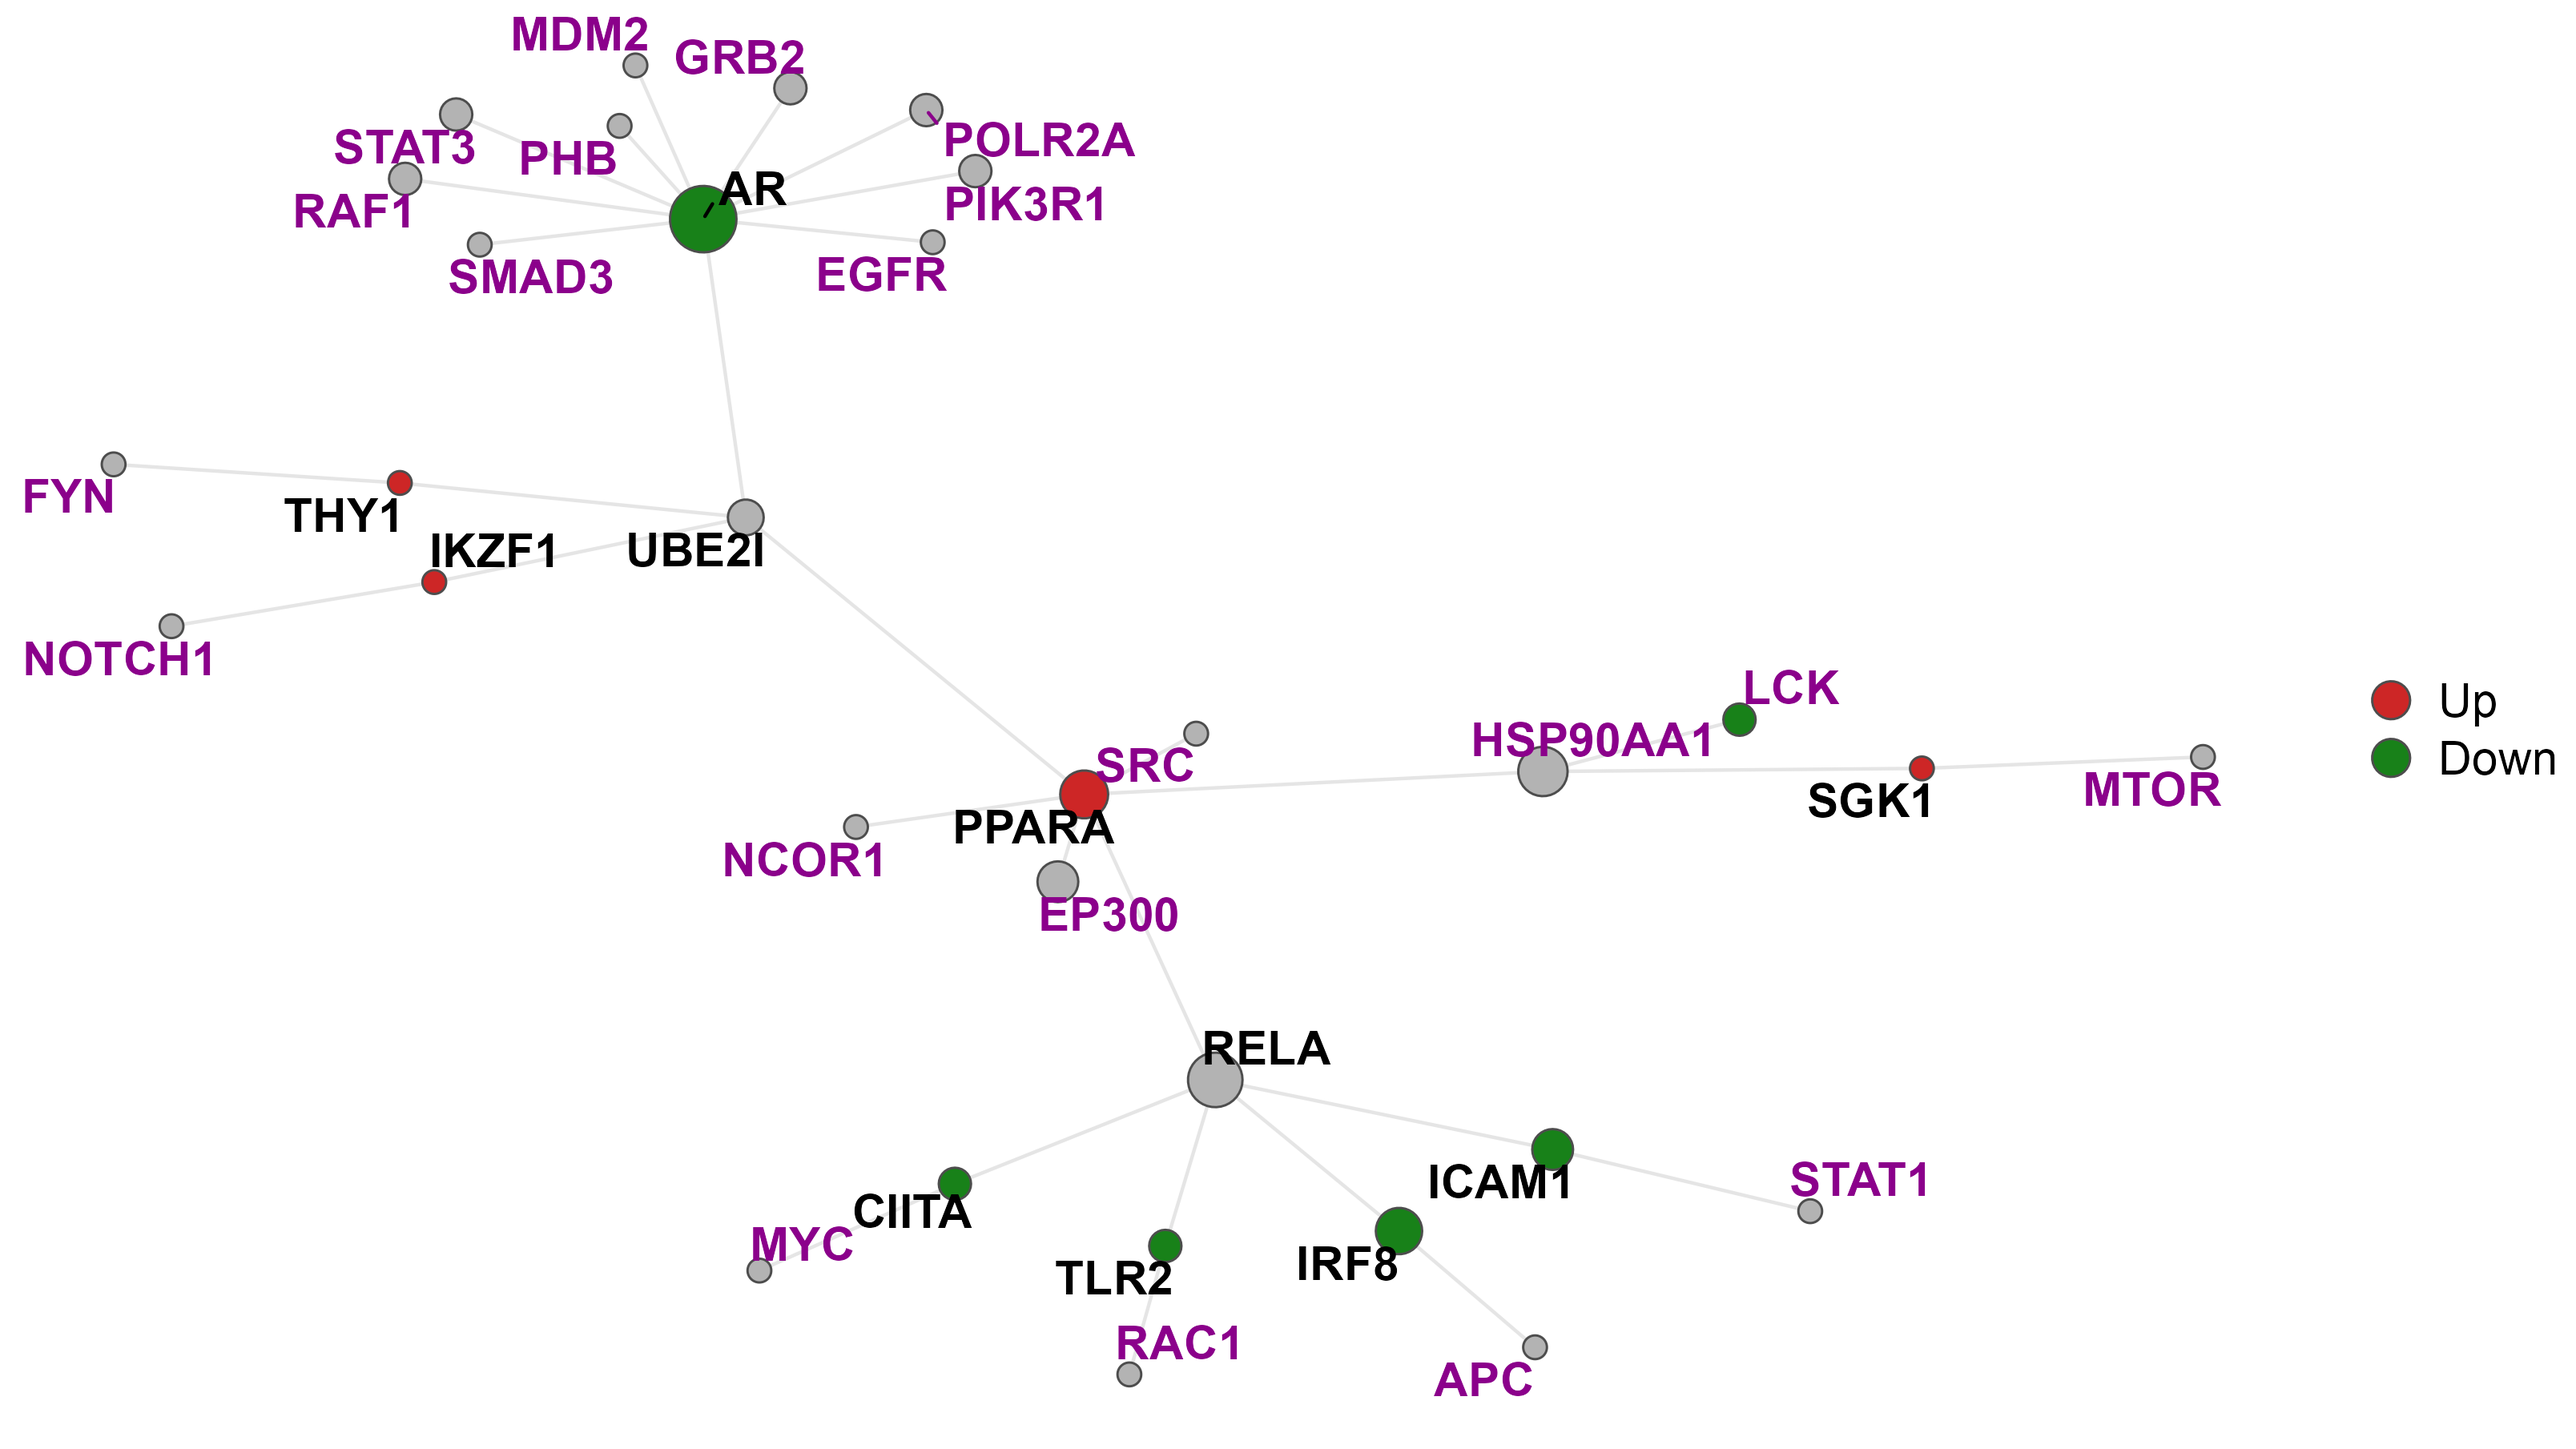
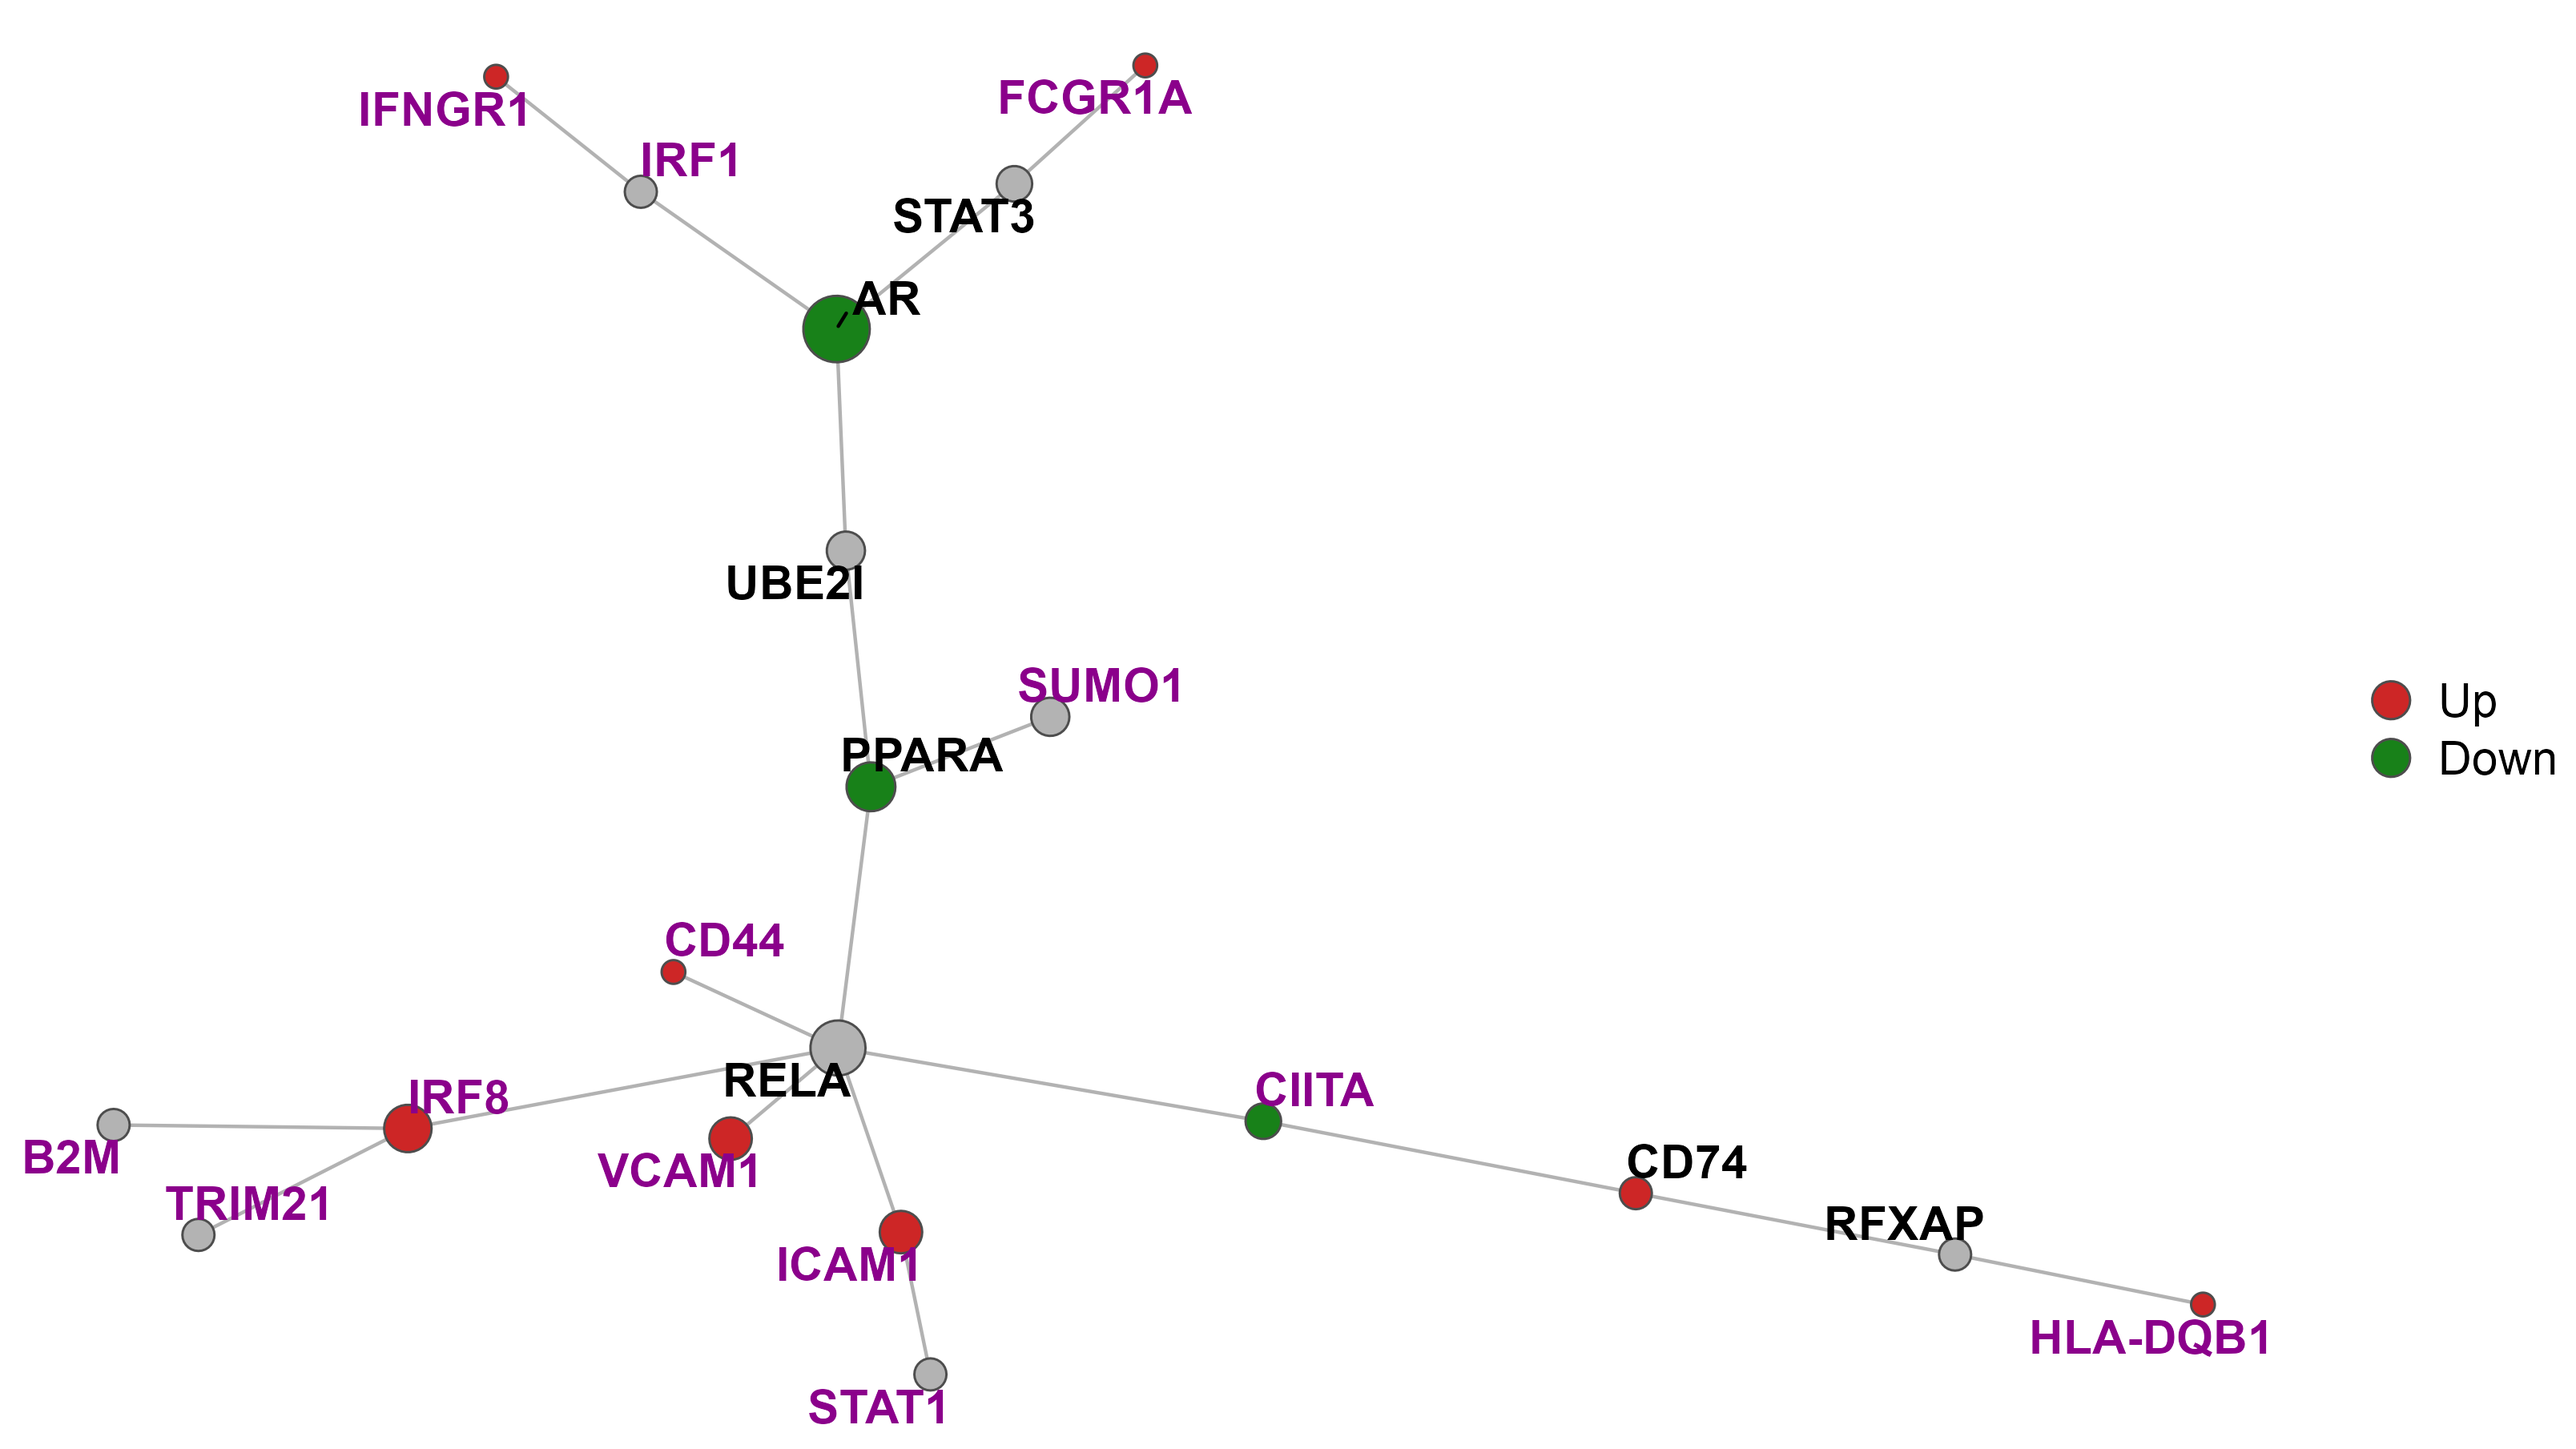
Updated readme based on recent changes.

diff --git a/README.md b/README.md
@@ -41,7 +41,8 @@ networks.
 > ex_network <- build_network(
     df    = ex_genes,
     col   = "ensembl_gene_id",
-    order = "min_steiner"
+    order = "min_steiner",
+    hub_measure = "degree"
   )
 # ==> INFO: Found 3 duplicate IDs in the input column, which have been removed:
 # ENSG00000172724, ENSG00000169397, ENSG00000169385
@@ -61,13 +62,13 @@ the automatically added "gene_name" column to provide the labels:
     network      = ex_net,
     fill_column  = log2FoldChange,
     fill_type    = "fold_change",
-    layout       = "force_atlas",
+    layout       = "nicely",
     label        = TRUE,
     label_column = gene_name,
     label_filter = 2,
+    label_size   = 4,
     legend       = TRUE
   )
-# Calculating Force Atlas node positions...
 # Warning message:
 # Removed 166 rows containing missing values (geom_text_repel).
 ```
@@ -106,13 +107,18 @@ highlighted when plotting:
     enrich_result = sig_pathways,
     pathway_name  = "Interferon gamma signaling"
   )
+# Checking inputs...
+# Pulling genes for given pathway...found 13 genes.
+# Calculating subgraphs from specified nodes...
+# Determining shortest paths between nodes...
+# Done, new subnetwork contains 20 nodes.
 
 > plot_network(
     network      = ex_net_module,
     fill_column  = log2FoldChange,
     fill_type    = "fold_change",
     legend       = TRUE,
-    layout       = "kk",
+    layout       = "nicely",
     label        = TRUE,
     label_column = gene_name,
     label_filter = 0,
